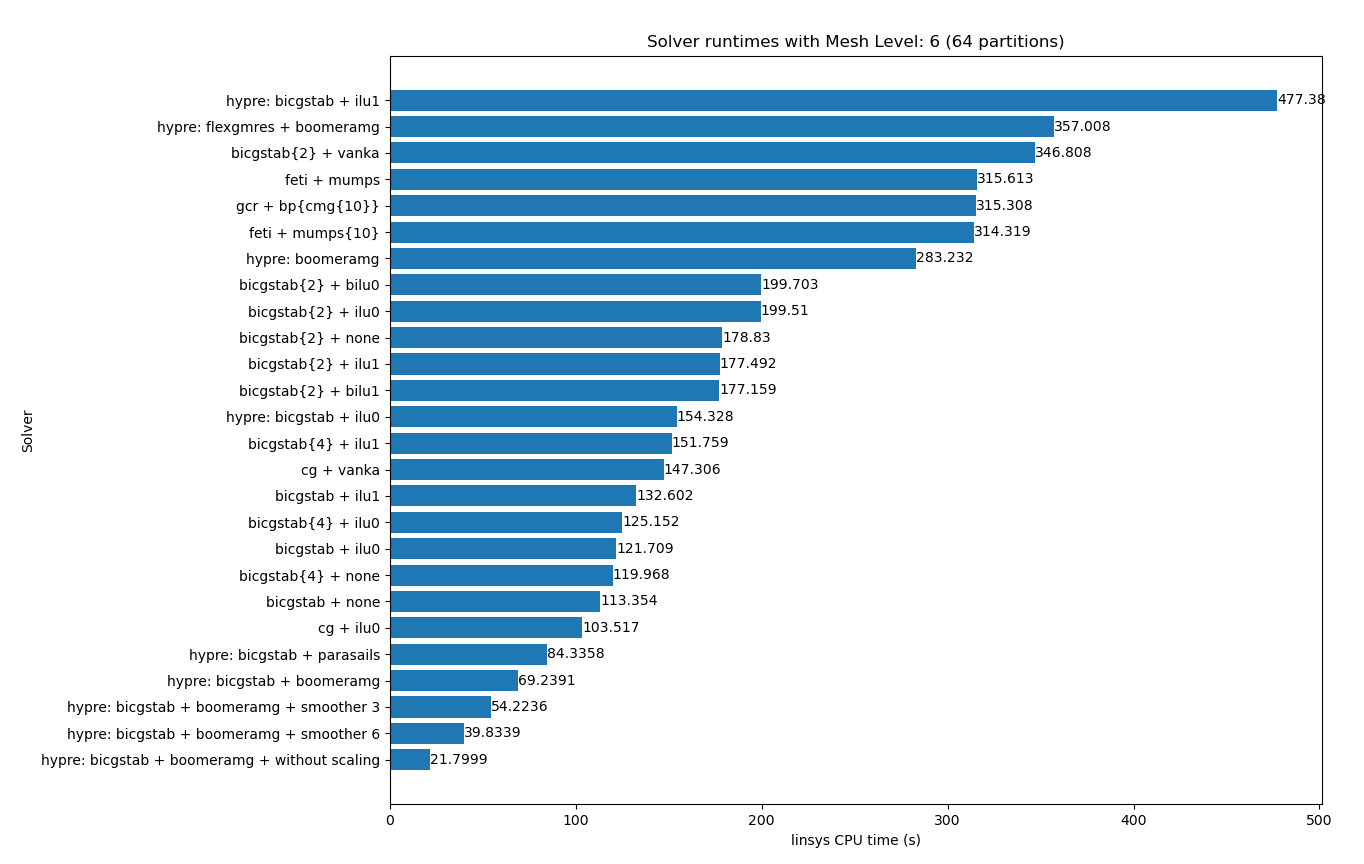
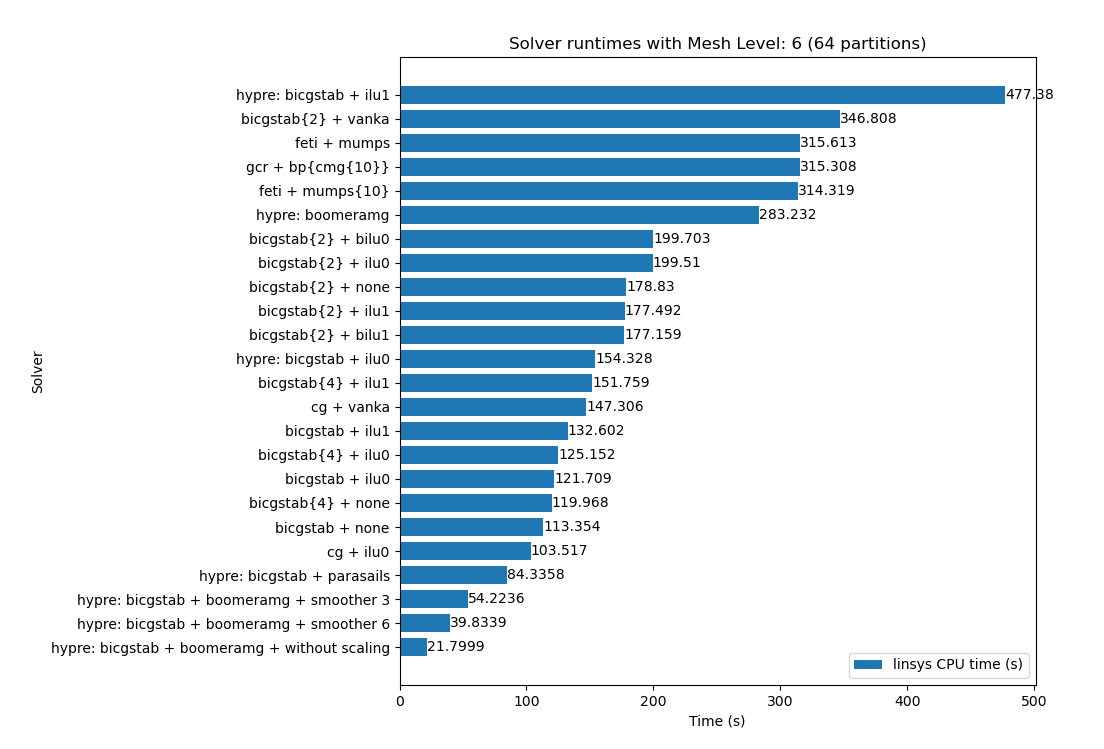
Improvements to spotting failed solves

diff --git a/Poisson/python-scripts/plot_scalability_bar.py b/Poisson/python-scripts/plot_scalability_bar.py
@@ -4,8 +4,8 @@ The file should contain data for multiple mesh levels
 
 Usage is: 
     python3 plot_scalability_bar.py   // When using predefined values
-    python3 plot_scalability_bar.py "file"  // When using predefined path, but given file
-    python3 plot_scalability_bar.py "file" -p "path"  // When using given path and file
+    python3 plot_scalability_bar.py -f "file"  // When using predefined path, but given file
+    python3 plot_scalability_bar.py -f "file" -p "path"  // When using given path and file
 """
 
 import numpy as np
@@ -61,20 +61,33 @@ def read_markers(dat_file):
     return solvers
 
 
+def failed_solvers(data):
+    ret = []
+    for mesh_level in data['MeshLevel'].unique():
+        temp = data[data['MeshLevel'] == mesh_level]
+        # Find the median of the norm values and remove the rows where the
+        # norm varies significantly
+        median = np.median(temp['norm'].values)  # Might need to be changed to mode if floating point error can be handled
+        temp = temp[~np.isclose(temp['norm'], median, atol=10 ** (-6))]
+        ret += temp['Solver'].values.tolist()
+
+    return ret
+
+
 def main():
     global dat_filename  # Python isn't smart enough so this needs to be declared
     
     if len(sys.argv) > 1:
         parser = argparse.ArgumentParser()
         parser.add_argument('-p', '--path', type=str)
-        parser.add_argument('dat_file', type=str)
+        parser.add_argument('-f', '--file', type=str)
         args = parser.parse_args()
 
         if args.path is not None:
             os.chdir(args.path)
 
-        if args.dat_file is not None:
-            dat_filename = args.dat_file
+        if args.file is not None:
+            dat_filename = args.file
         
     data = pd.read_table(dat_filename, delim_whitespace=True, header=None)
     solvers = read_markers(dat_filename)
@@ -83,14 +96,18 @@ def main():
     data['Solver'] = solvers
 
     # Drop the row if the solver failed
-    data = data[data['norm'] != 0.0]
+    remove_solvers = list(set(failed_solvers(data)))
+
+    if len(remove_solvers) != 0:
+        data = data[~data['Solver'].isin(remove_solvers)]
+        print(f"WARNING: Solvers: {', '.join(remove_solvers)} had incorrect solution")
 
     grouped = data.groupby('Solver', group_keys=True).apply(lambda x: x)
 
     successful_solvers = []
     coefs = []
 
-    for solver in solvers:
+    for solver in data['Solver'].values:
         times = grouped[grouped['Solver'] == solver][use_time].values.tolist()
         dofs = grouped[grouped['Solver'] == solver]['dofs'].values / 1_000_000  # Unit should be 1M dofs
 
@@ -101,7 +118,7 @@ def main():
             coefs.append(ret)
 
         else:
-            warnings.warn("Could not fit a curve to the datapoints. Ignoring the solver.", RuntimeWarning)
+            print(f"WARNING: Could not fit a curve to the datapoints of solver {solver}. Ignoring the solver.")
 
     zipped = list(zip(successful_solvers, coefs))
     zipped.sort(key=lambda tup: tup[1])

diff --git a/Poisson/python-scripts/plot_scalability.py b/Poisson/python-scripts/plot_scalability.py
@@ -3,8 +3,8 @@ Basic Python script that plots the execution times for given linear solvers as a
 
 Usage is: 
     python3 plot_scalability.py   // When using predefined values
-    python3 plot_scalability.py "file1" "file2" ...  // When using predefined path, but given files
-    python3 plot_scalability.py "file1" "file2" ... -p "path"  // When using given path and files
+    python3 plot_scalability.py -f "file1" "file2" ...  // When using predefined path, but given files
+    python3 plot_scalability.py -f "file1" "file2" ... -p "path"  // When using given path and files
 """
 
 import numpy as np
@@ -65,8 +65,15 @@ def read_and_plot(dat_file):
     data.columns = columns
     data['Solver'] = solvers
 
-    # Drop the row if the solver failed
-    data = data[data['norm'] != 0.0]
+    # Drop the solver if it failed with any mesh level
+    # This is relatively poor way of evaluating the correctness
+    # of the solution and should be rewritten
+    median = np.median(data['norm'].values)
+    data = data[np.isclose(data['norm'], median, atol=0.1)]
+
+    if len(data) != len(solvers):
+        print(f"WARNING: Solver {solvers[0]} had incorrect solution")
+        return
 
     times = data[use_time].values.tolist()
     dofs = data['dofs'].values / 1_000_000  # Unit should be 1M dofs
@@ -76,7 +83,7 @@ def read_and_plot(dat_file):
     try:
         popt, pcov = curve_fit(lambda n, a, b: a * n ** b, dofs, times)
     except RuntimeError:
-        warnings.warn("Could not fit a curve to the datapoints. Plotting just the points.", RuntimeWarning)
+       print(f"WARNING: Could not fit a curve to the datapoints of solver {solvers[0]}. Plotting just the points.")
     else:
         x = np.linspace(np.min(dofs), np.max(dofs), 100)
         y = popt[0] * x ** popt[1]
@@ -86,6 +93,7 @@ def read_and_plot(dat_file):
 
     plt.loglog(dofs, times, color=color, marker='o', linestyle='None', mfc='none', alpha=0.7,
                label=f"Datapoints for solver: {data['Solver'][0]}")
+    
     if curve_found:
         plt.loglog(x, y, color=color, alpha=0.5,
                    label=f"Found exponential: $({popt[0]:.2e}) \cdot n ^ {{{popt[1]:.2e}}}$")
@@ -98,7 +106,7 @@ def main():
     if len(sys.argv) > 1:
         parser = argparse.ArgumentParser()
         parser.add_argument('-p', '--path', type=str)
-        parser.add_argument('files', nargs='*', type=str)
+        parser.add_argument('-f', '--files', nargs='*', type=str)
         args = parser.parse_args()
 
         if args.path is not None:

diff --git a/Poisson/python-scripts/plot_times.py b/Poisson/python-scripts/plot_times.py
@@ -15,6 +15,7 @@ as the figure will get very crowded
 import numpy as np
 import pandas as pd
 import matplotlib.pyplot as plt
+import warnings
 import os
 import sys
 import argparse
@@ -87,15 +88,23 @@ def main():
     data.columns = columns
     data['Solver'] = solvers
 
-    # Drop the row if the solver failed
-    data = data[data['norm'] != 0.0]
-
     # Find the most common mesh level value and drop all rows with different mesh level
     # if no chosen mesh level was passed
     if mesh_level is None:
         mesh_level = data['MeshLevel'].mode()[0]
-        
+
     data = data[data['MeshLevel'] == float(mesh_level)]
+
+    solvers = data['Solver'].values.tolist()
+    n_solvers = len(solvers)
+
+    # Find the median of the norm values and remove the rows where the
+    # norm varies significantly
+    median = np.median(data['norm'].values)  # Might need to be changed to mode if floating point error can be handled
+    data = data[np.isclose(data['norm'], median, atol=10 ** (-6))]
+
+    if len(data) != n_solvers:
+        print(f"WARNING: Solvers: {', '.join(list(set(solvers).difference(set(data['Solver'].values.tolist()))))} had incorrect solution")
 
     data.sort_values(by=[use_time], ascending=True, inplace=True)
 
